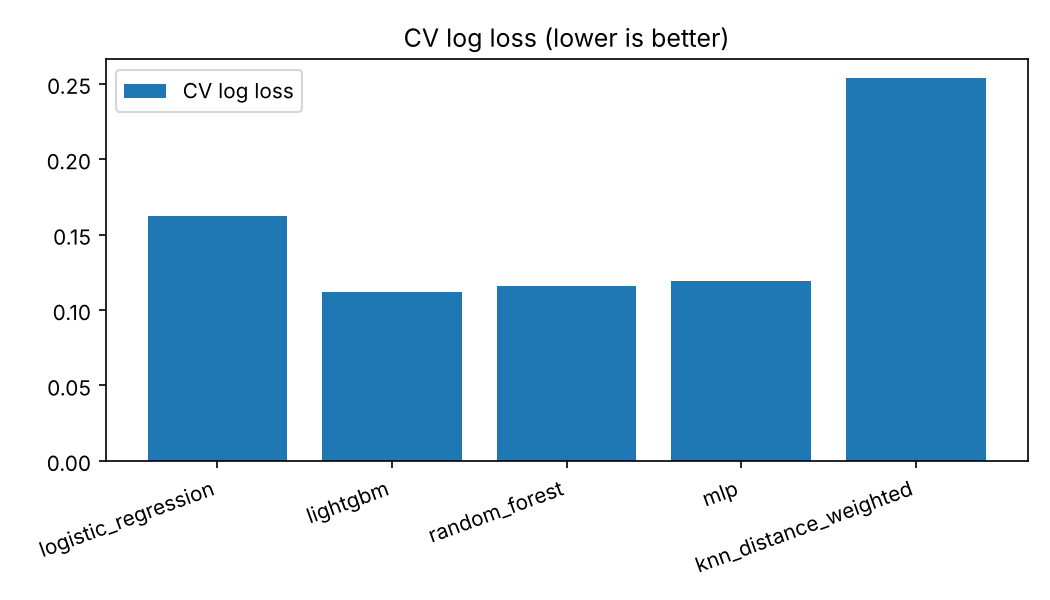
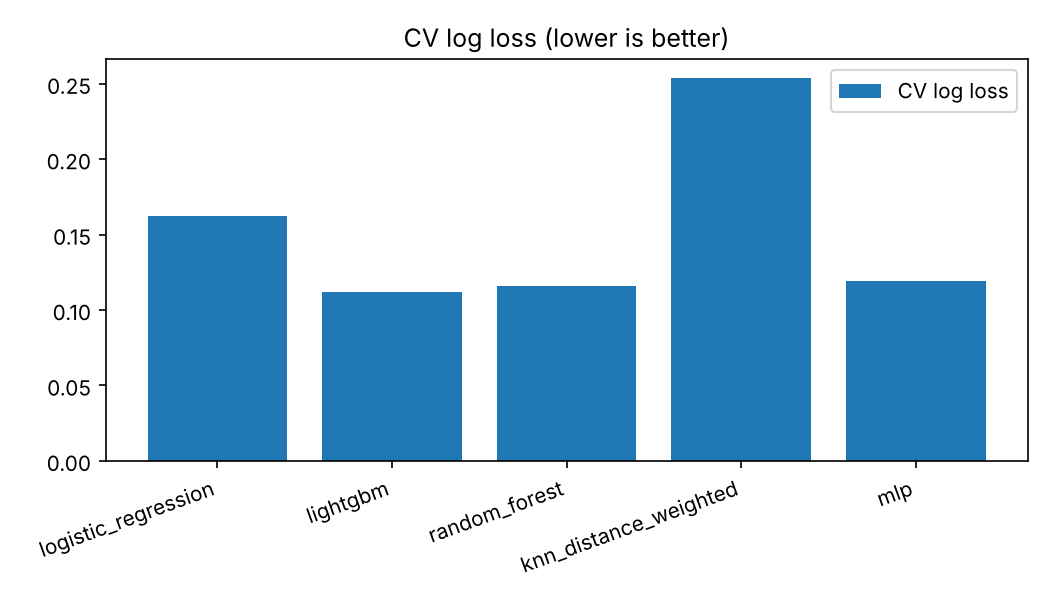
One-time student_test evaluation: models and HMM
Run once after all choices were frozen on train (approved by the team).
Comparison page shows the student-test tables.

diff --git a/api/main.py b/api/main.py
@@ -138,6 +138,9 @@ def comparison():
         "decoder": _csv_rows(res / "pipeline" / "hmm_comparison.csv", {
             "method": "Method", "top1_pooled": "Top-1", "top1_mean_over_trips": "Top-1 (trip mean)",
             "route_continuity": "Route continuity", "n_trips": "Trips"}),
+        "decoder_student_test": _csv_rows(res / "pipeline" / "hmm_comparison_student_test.csv", {
+            "method": "Method", "top1_pooled": "Top-1", "route_continuity": "Route continuity",
+            "model": "Classifier"}),
         "student_test": _csv_rows(res / "models" / "final_student_test.csv", {
             "model": "Model", "test_top1": "Top-1", "test_f1_macro": "Macro F1",
             "test_log_loss": "Log loss", "test_route_continuity": "Route continuity",

diff --git a/ui/app.py b/ui/app.py
@@ -137,7 +137,9 @@ def show_comparison(api_url):
     table("tuning", "Untuned vs tuned (Bayesian optimisation)", "CV Top-1")
     table("decoder", "Classifier only vs classifier + HMM (train, out-of-fold)", "Top-1",
           caption="Out-of-fold probabilities: every trip scored by a model that never saw it.")
-    table("student_test", "Student-test (one final run)", "Top-1")
+    table("student_test", "Student-test classifiers (one final run)", "Top-1",
+          caption="10 student_test trips, scored once after every choice was frozen.")
+    table("decoder_student_test", "Student-test: classifier only vs + HMM (one final run)", "Top-1")
 
 
 if page == "Model comparison":

diff --git a/results/models/EXPERIMENTS.md b/results/models/EXPERIMENTS.md
@@ -54,3 +54,10 @@ All development runs use train only (GroupKFold(5) by trip_id, SEED=42). student
 ## M4. Export tuned model bundle
 - Command: `python scripts/export_model.py` -> `artifacts/model.joblib` = tuned LightGBM (best_params.json) refit on all 80 train trips (1,189,495 labelled rows), 1.1 MB. The reload check (probabilities on 20,000 rows, atol 1e-9) passed. `hmm_params` is None because `results/pipeline/hmm_params.json` did not exist at export time; re-run the script once it does.
 - Per-model bundles (`artifacts/models/<name>.joblib`, for the UI picker) were exported by the lead thread with the same script (the Random Forest reload check needs atol, because multi-threaded forests sum trees in a varying order).
+
+## FINAL: one-time student_test evaluation (approved by Wolf, 18 Nov ~13:00 IST)
+- Command: `python scripts/train_models.py --final` at commit c804a3b (all choices frozen on train before this run)
+- Each model refit on all 80 train trips (KNN/MLP on their fixed subsample), scored once on the 10 student_test trips (125,439 labelled candidate rows, 19,132 points)
+- Outputs: `final_student_test.csv`, `plots/confusion_<model>.png`, `plots/student_test_top1_f1.png`, `plots/student_test_log_loss.png`
+- Headline Top-1 / macro F1 / log loss: LightGBM 0.8634 / 0.9167 / 0.1020; LightGBM tuned 0.8630 / 0.9164 / 0.1023; RF 0.8596 / 0.9157 / 0.1065; MLP 0.8558 / 0.9129 / 0.1079; LogReg 0.8466 / 0.8935 / 0.1517; KNN 0.8460 / 0.9073 / 0.2284
+- Not used for any decision.

diff --git a/results/pipeline/EXPERIMENTS.md b/results/pipeline/EXPERIMENTS.md
@@ -43,3 +43,10 @@ Each entry: command, code commit, date, outputs, headline numbers. Numbers are c
   distance + HMM unchanged 0.9289 / 0.9813. Chosen params unchanged: beta 10, floor 25, emission weight 0.1.
 - Reading: tuning the classifier changed classifier-only Top-1 by +0.0006 and classifier+HMM by −0.0002 (0.9390 in E2), i.e. no measurable difference.
 - Then `python scripts/export_model.py` wrote `artifacts/model.joblib` = lightgbm_tuned with these hmm_params.
+
+## FINAL: one-time student_test HMM evaluation (approved by Wolf)
+- Command: `python scripts/hmm_eval.py --final` at commit c804a3b, model artifacts/model.joblib (lightgbm_tuned), params from hmm_params.json (E3)
+- Output: `hmm_comparison_student_test.csv` (10 trips, 19,132 labelled points)
+- Headline Top-1 / route continuity: distance only 0.5351 / 0.8209; distance + HMM 0.9368 / 0.9809; classifier only 0.8630 / 0.9431; classifier + HMM 0.9214 / 0.9818
+- Reading (honest): on student_test the no-ML decoder (distance + HMM) beats classifier + HMM by 1.5 points, the reverse of train CV (0.9289 vs 0.9388). We do NOT switch models because of this (student_test must not drive choices); the report discusses it as a limitation: the HMM does most of the work, and the classifier's extra signal did not generalise to these 10 trips.
+- Not used for any decision.
